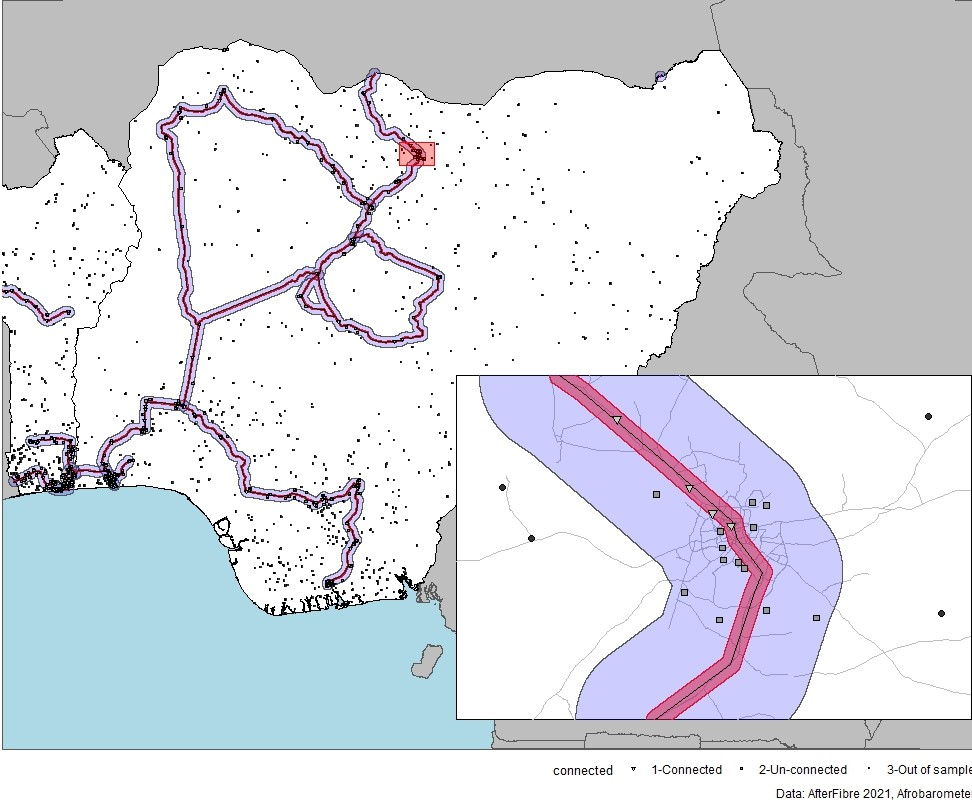
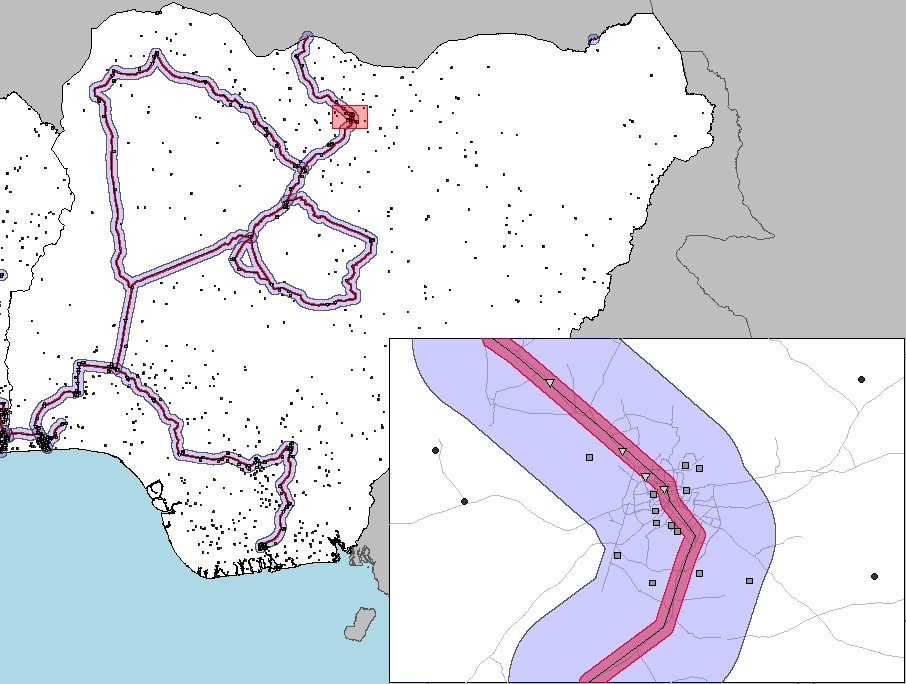
figure research

diff --git a/research.html b/research.html
@@ -291,7 +291,7 @@ allows access to social networks and other content, two mechanisms are
 explored to explain this positive impact: information and coordination
 channels. The main explanatory channel appears to be the enhanced
 coordination.</p>
-<p><img src="images/plot_methodo_chap1_bon.jpeg" width="50%" /><img src="images/coef_plot_backbone.jpg" width="50%" /></p>
+<p><img src="images/plot_methodo_chap1_bon.jpeg" width="50%" /><img src="images/coef_plot_bb2.png" width="50%" /></p>
 <hr />
 <p><strong>Welfare Cost of Mobile Spectrum (Mis)allocation</strong>
 (with <a href="https://www.tse-fr.eu/fr/people/marc-ivaldi">Marc

diff --git a/getting_sophisticated.html b/getting_sophisticated.html
@@ -481,7 +481,7 @@ Markdown chapter in R for Data Science</a>.</p>
 <div id="in-line" class="section level3">
 <h3>in line</h3>
 <p>Here is an example inline. The date when I last built the website is
-2023-12-22. My favorite number is 13.1415927. There are 41 files and
+2023-12-25. My favorite number is 13.1415927. There are 41 files and
 folders in our repo. This is not just text; his is executable R code
 that is 100% awesome!</p>
 <p><br></p>
